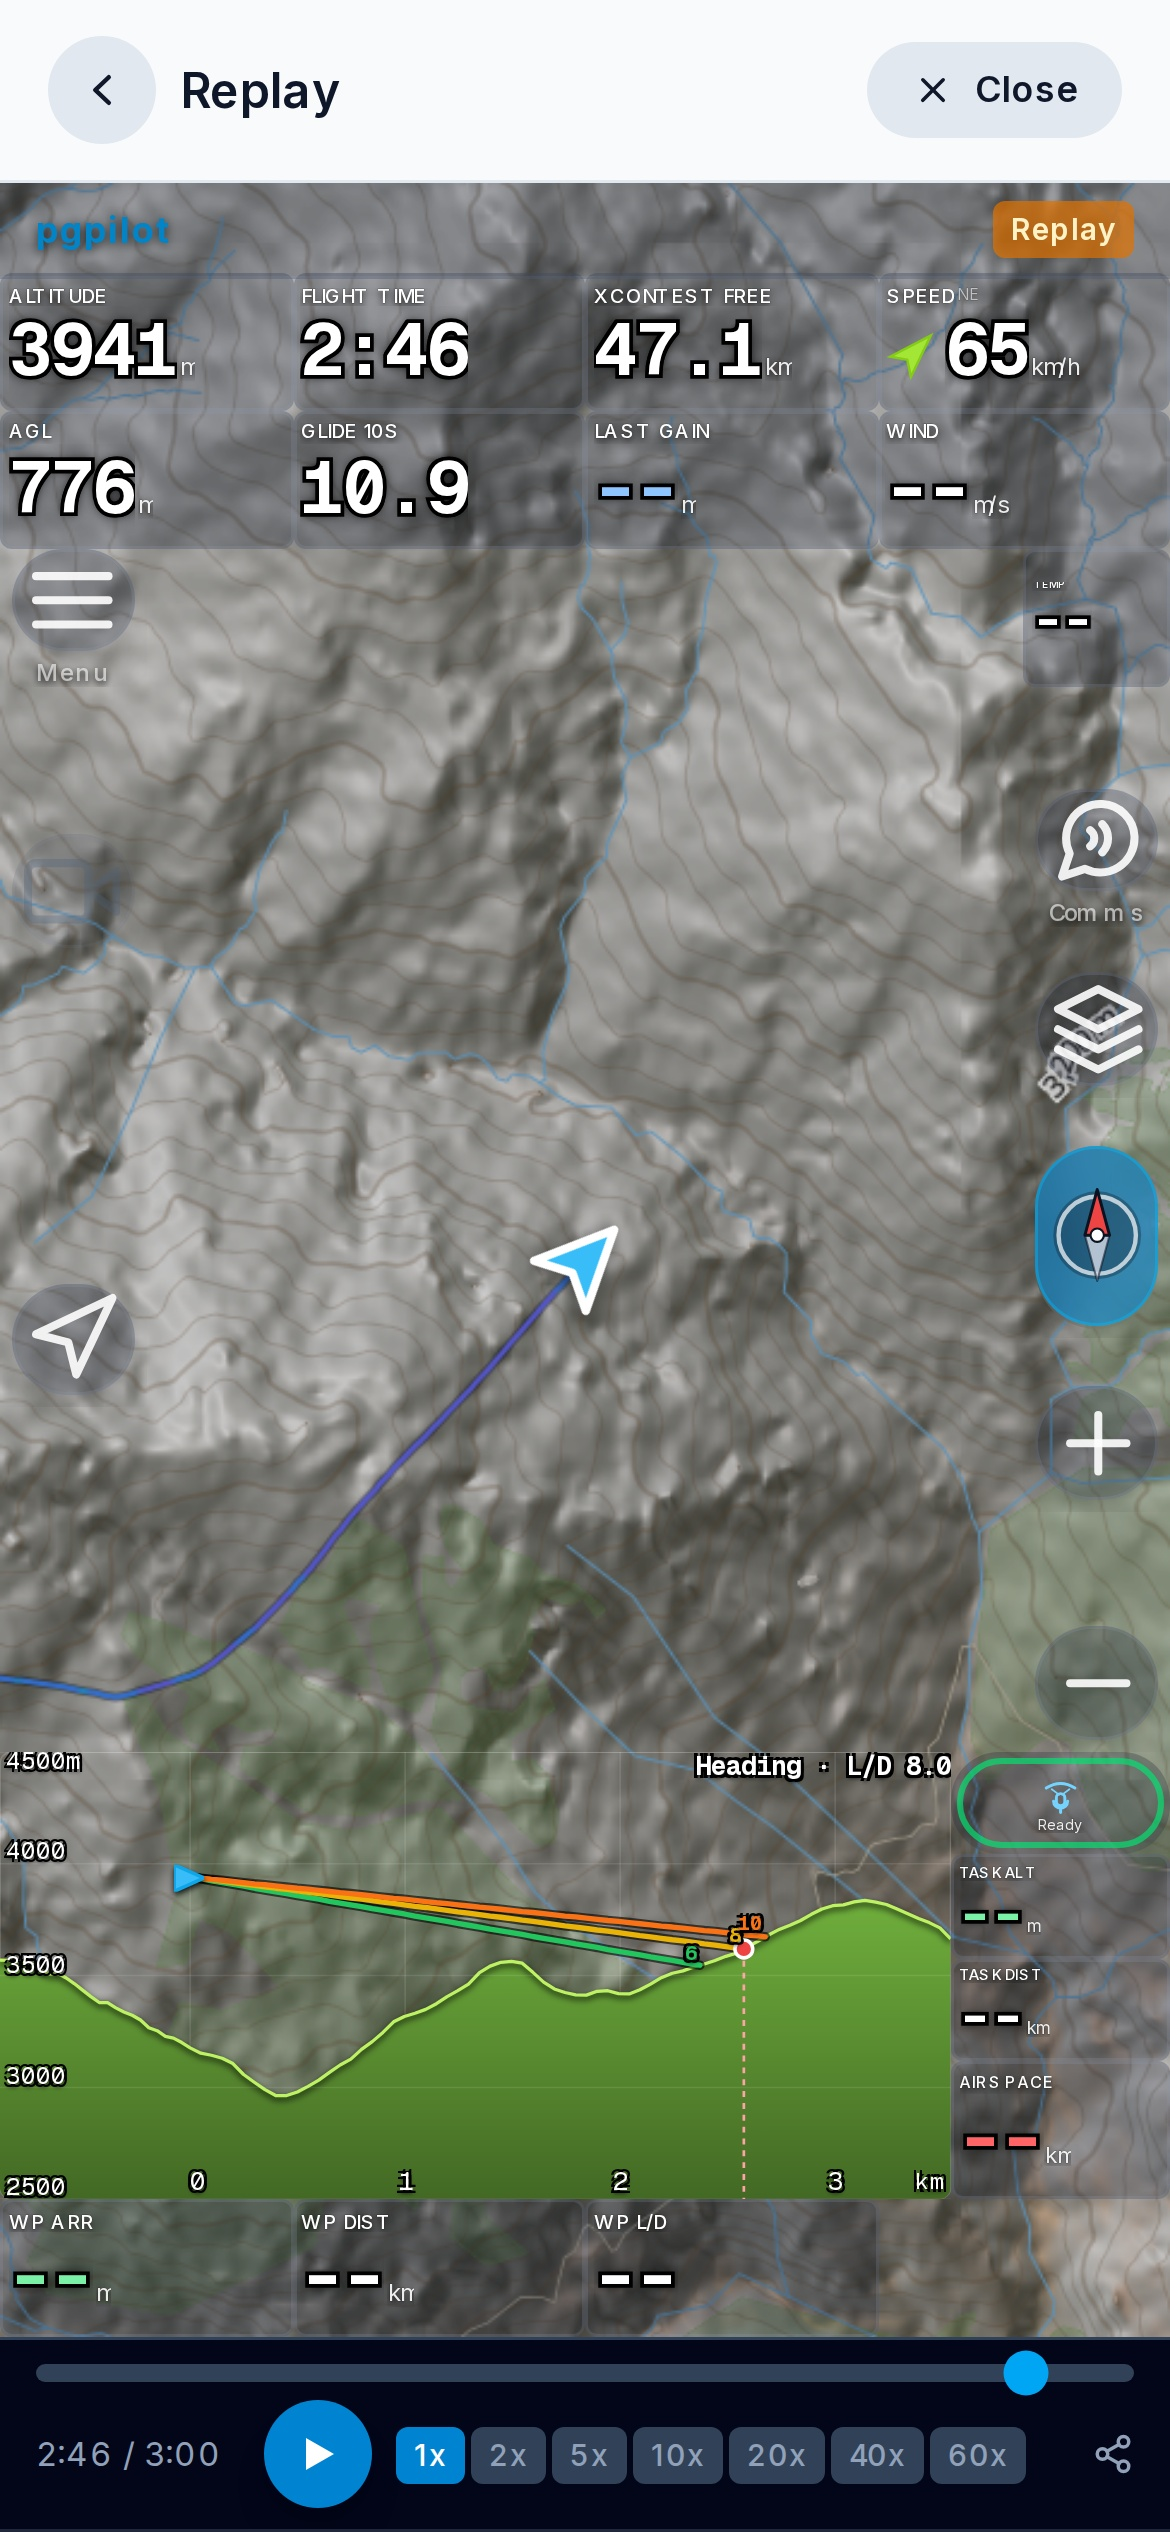
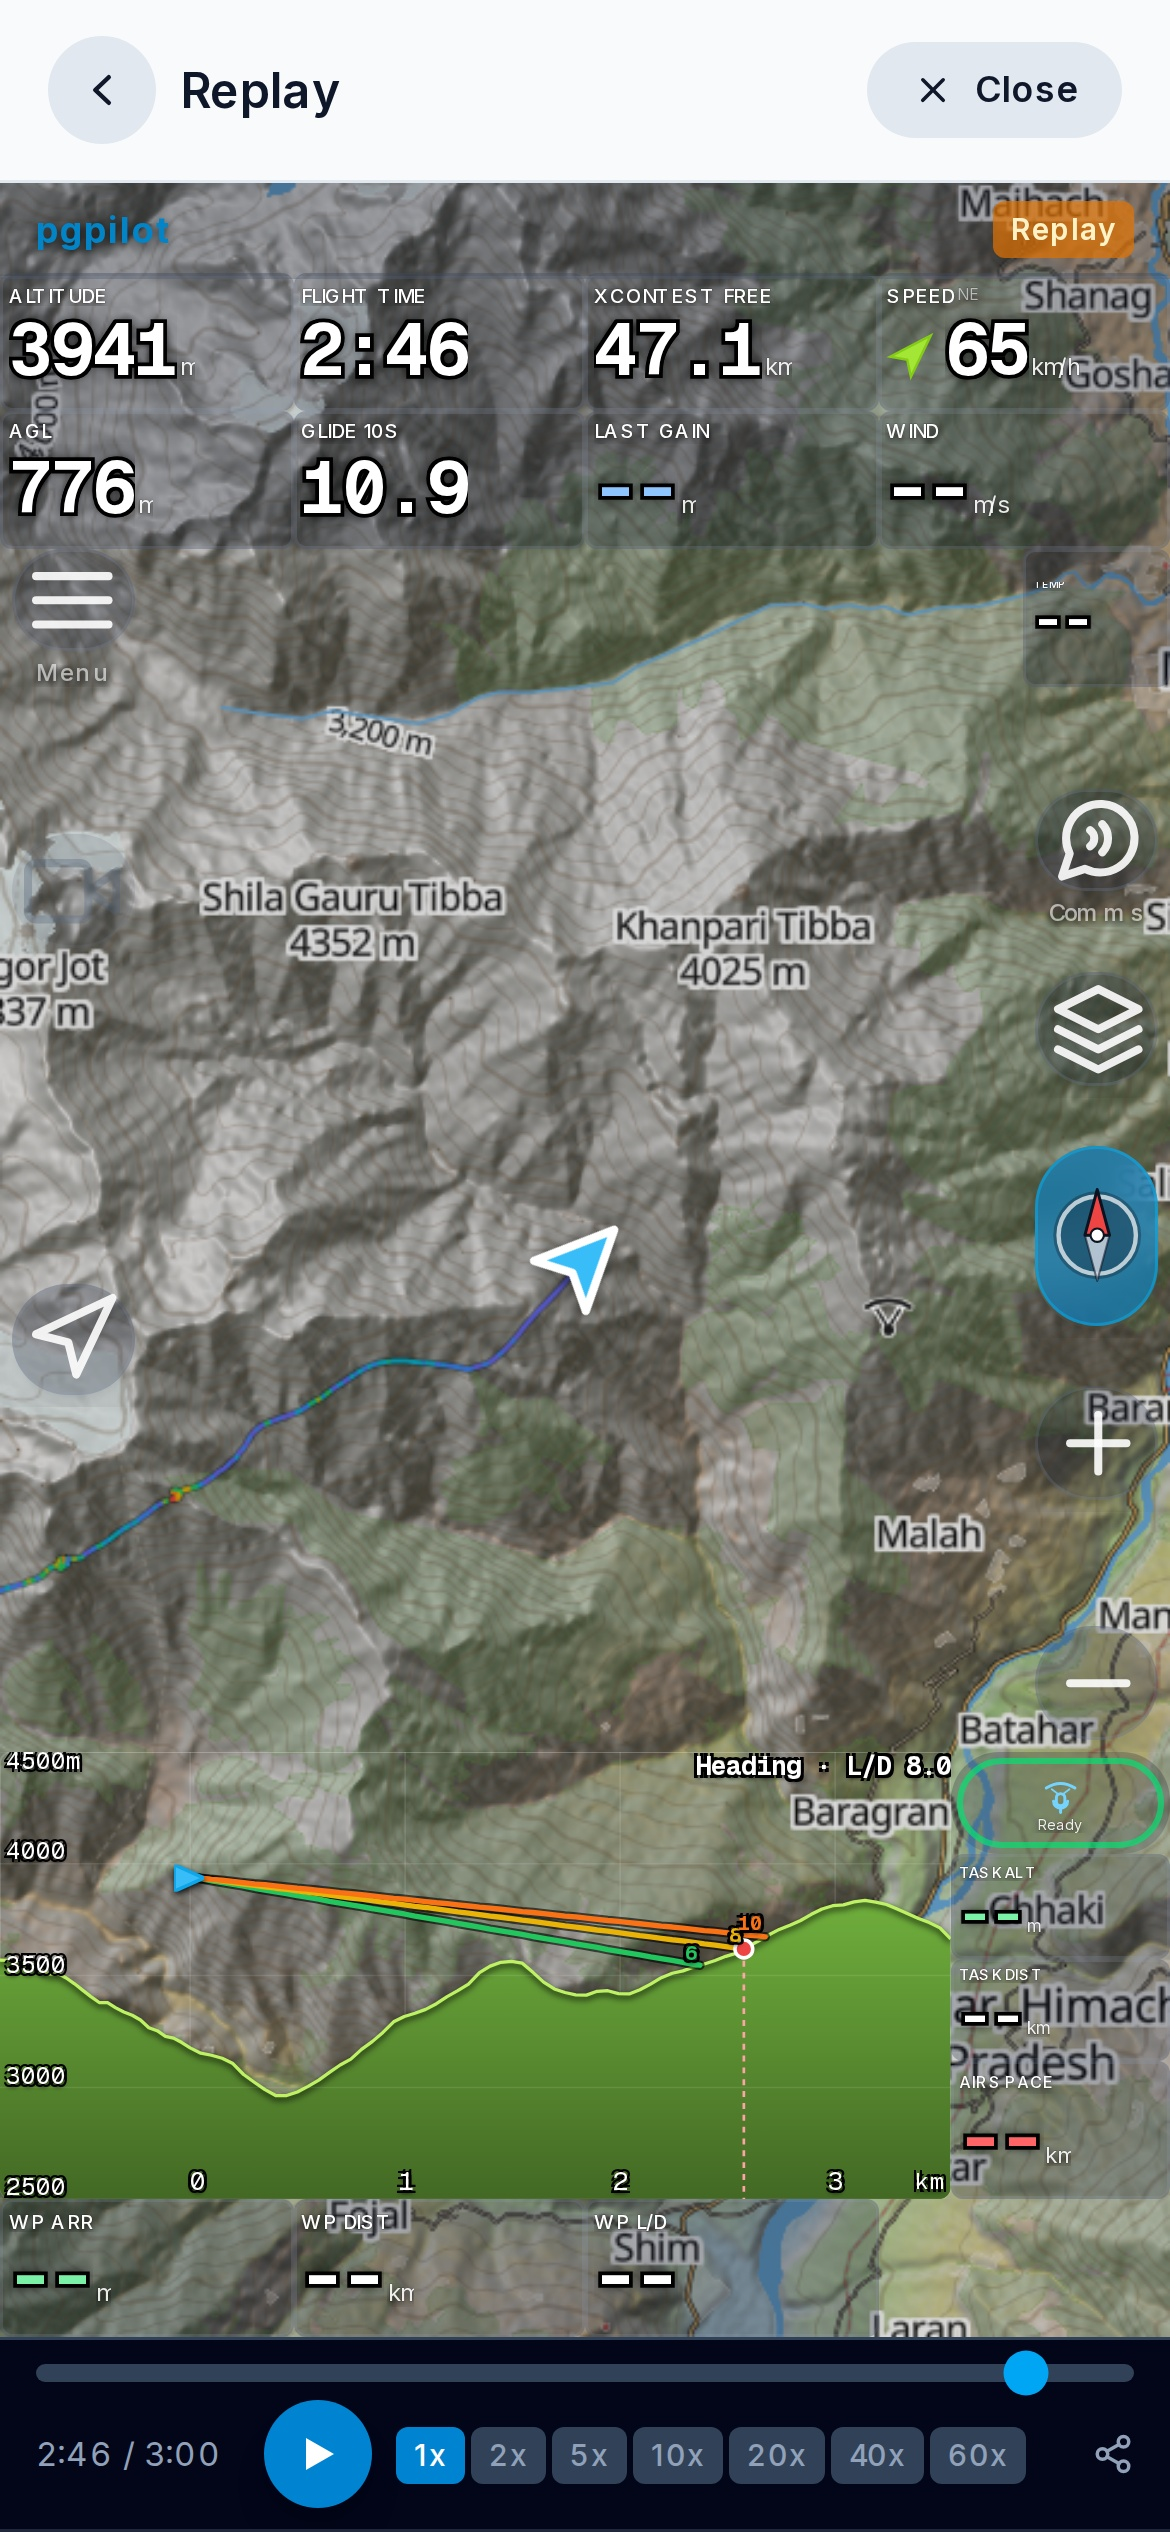
Zoom ut glide-bildet saa rekkevidden faar plass
Forrige versjon saa lik ut fordi utzoomingen ikke tok: aa sette zoomen
gjennom kartobjektet ble overstyrt av replayets foelg-logikk. Minus-
knappen mens replayet staar paa pause er det som faktisk sitter.

Bildet viser naa terrenget rundt med stedsnavn og sporet bak piloten,
med GLIDE 10S paa 10.9 og glide range i hoy kvalitet.

diff --git a/docs/himalaya/voss.html b/docs/himalaya/voss.html
@@ -516,7 +516,8 @@ Simen Eide
 <img class="clip" src="img/app-glide.jpg" alt="Glidetall og rekkevidde">
 <aside class="notes">
 <p>Stillbilde, ikke klipp, og det er et bevisst valg: aa steppe replayet frame for frame gir jevn video, men soek nullstiller estimatorene, saa GLIDE 10S faller til “–”. I et bilde om glidetall er nettopp det tallet poenget.</p>
-<p>Her staar GLIDE 10S paa 10.9, og glidestraalene L/D 6, 8 og 10 treffer bakken ved 2,5 km med stoppunktet markert. Glide range er satt til hoy kvalitet.</p>
+<p>Her staar GLIDE 10S paa 10.9, og glidestraalene L/D 6, 8 og 10 treffer bakken ved 2,5 km med stoppunktet markert. Glide range staar paa hoy kvalitet.</p>
+<p>Kartet er zoomet to hakk ut fra der replay foelger piloten, saa rekkevidden faar plass i ramma. AA sette zoomen gjennom kartobjektet ble overstyrt av foelg-logikken; minus-knappen mens replayet staar paa pause er det som sitter.</p>
 <style type="text/css">
         span.MJX_Assistive_MathML {
           position:absolute!important;
